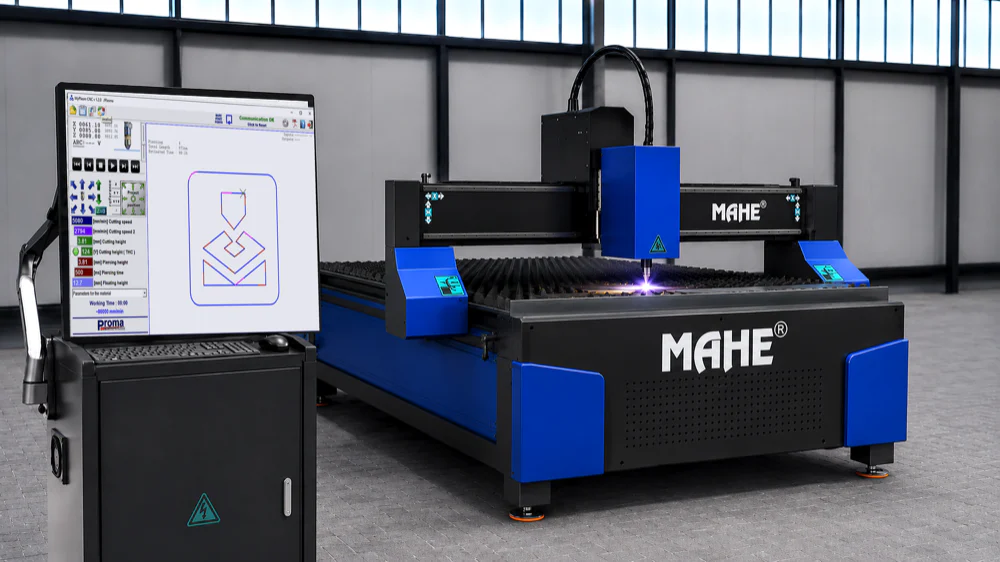
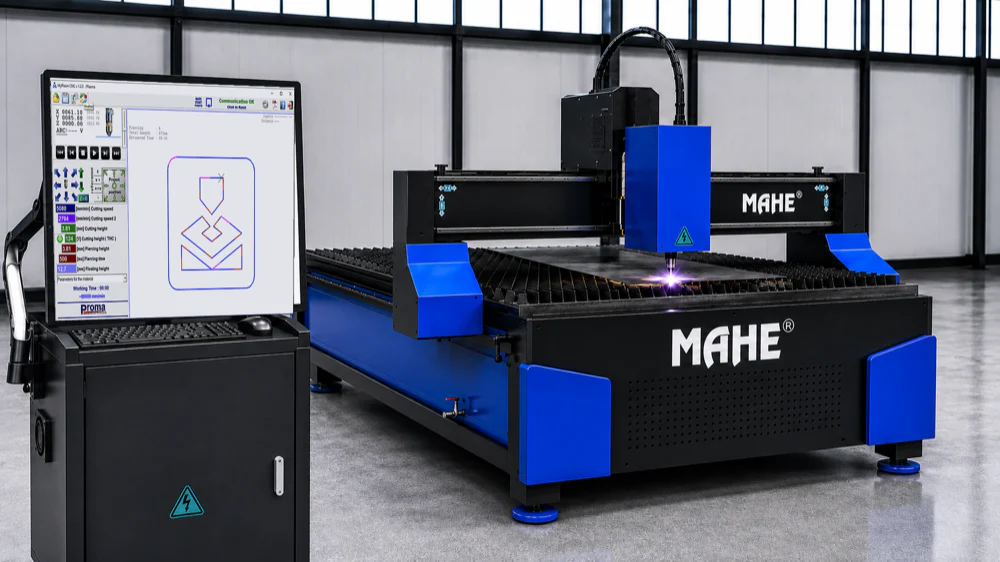
Neuer MPT-Render vom Inhaber, mit der echten MyPlasm-Oberflaeche
Der Inhaber hat "MAHE MPT 3001.png" geliefert. Die Maschine darauf ist
deutlich besser als in der bisherigen Vorlage: auf dem Tisch liegt ein Blech,
der Brenner schneidet hinein und wirft Funken, die Lamellen sind dichter, die
Verkleidungen groesser, das Licht ist sauberer. Die bisherige Aufnahme
schnitt ins Leere. Sie ist damit ersetzt - auf beiden Geraeteseiten und im
Band der Startseite.

Der Bildschirm darin ist neu eingesetzt, wie beim vorigen Render. Grund: in
der gelieferten Fassung stand auf dem Monitor eine Oberflaeche, die es nicht
gibt. Nachgelesen im Bild: Fenstertitel "MAHE CNC 1.2.0 | Plasma", darunter
"S800 [mm/min] Cutting speed" (die Anlage faehrt 5080), "SIG [mm] Piercing
height" - SIG ist keine Millimeterzahl -, "S300 [ms] Piercing time" (500),
"Filename: Deeeeein taberdd | uumaa G", "Total Lengtusn : 6310mm",
"Inputs :=666-----", und im Bedienfeld "Clemant 0 Comant" statt "Project
position".

"MAHE CNC" kommt in keiner MAHE-Quelle vor. Geprueft ueber data/*.json und
build/mahe_*.json: dort steht durchgehend "MyPlasm CNC System von Proma
Elektronika" - MAHEs eigene Angabe aus der Preisliste 2026 V11, S. 66/67, und
so steht es auch im Text derselben Produktseite. Auf dem Monitor ist deshalb
wieder die echte Aufnahme der Oberflaeche zu sehen, perspektivisch eingepasst
(Ecken 83/130, 492/146, 490/525, 92/537), dreifach ueberabtastet und mit
LANCZOS verkleinert, UnsharpMask 0.8/60/2, Tonwert an die Umgebung
angeglichen (Faktor 0.89/0.90/0.92).
[…]

diff --git a/fr/index.html b/fr/index.html
@@ -102,7 +102,7 @@
 </aside>
 <main id="main">
 
-<section class="hero" data-hero aria-roledescription="carousel" aria-label="VES-TECH Swiss"><div class="hero-slide active" role="group" aria-roledescription="slide" aria-label="Image 1 sur 2"><div class="hero-inner"><img class="hero-photo" src="/assets/img/hero-1536.webp?v=4fab8153" srcset="/assets/img/hero-640.webp?v=7de5f3d2 640w, /assets/img/hero-1000.webp?v=fa3d0fe1 1000w, /assets/img/hero-1536.webp?v=4fab8153 1536w" sizes="100vw" width="1536" height="1024" fetchpriority="high" decoding="async" alt="MAHE HyperMIG SX: Schweissanlagen bei VES-TECH Swiss" data-fb="/assets/img/hero.jpg"></div></div><div class="hero-slide light" role="group" aria-roledescription="slide" aria-label="Image 2 sur 2"><div class="hero-inner"><img class="hero-photo" src="/assets/img/hero-mpt-2048.webp?v=5ce88a02" srcset="/assets/img/hero-mpt-640.webp?v=cf7dc135 640w, /assets/img/hero-mpt-1000.webp?v=88d31c6d 1000w, /assets/img/hero-mpt-1536.webp?v=458fb6f8 1536w, /assets/img/hero-mpt-2048.webp?v=5ce88a02 2048w" sizes="100vw" width="3344" height="1882" loading="eager" fetchpriority="low" decoding="async" alt="MAHE MPT: CNC-Plasmaschneidtisch mit Bedienkonsole" data-fb="/assets/img/hero-mpt.jpg"><div class="hero-txt"><span class="hk">Nouveau dans la gamme</span><h2>MAHE MPT · table de découpe plasma CNC</h2><p>3000 × 1500 mm ou 2500 × 1250 mm · Theta 060 / 120 / 180 HSC · MyPlasm CNC</p><a class="btn pri" href="/fr/produits/decoupe-plasma/mpt-3001/">Voir la table de découpe</a></div></div></div><div class="hero-dots" role="tablist" aria-label="Autres images"><button class="hdot active" type="button" role="tab" aria-selected="true" data-i="0" aria-label="Image 1 sur 2"></button><button class="hdot" type="button" role="tab" aria-selected="false" data-i="1" aria-label="Image 2 sur 2"></button></div></section>
+<section class="hero" data-hero aria-roledescription="carousel" aria-label="VES-TECH Swiss"><div class="hero-slide active" role="group" aria-roledescription="slide" aria-label="Image 1 sur 2"><div class="hero-inner"><img class="hero-photo" src="/assets/img/hero-1536.webp?v=4fab8153" srcset="/assets/img/hero-640.webp?v=7de5f3d2 640w, /assets/img/hero-1000.webp?v=fa3d0fe1 1000w, /assets/img/hero-1536.webp?v=4fab8153 1536w" sizes="100vw" width="1536" height="1024" fetchpriority="high" decoding="async" alt="MAHE HyperMIG SX: Schweissanlagen bei VES-TECH Swiss" data-fb="/assets/img/hero.jpg"></div></div><div class="hero-slide light" role="group" aria-roledescription="slide" aria-label="Image 2 sur 2"><div class="hero-inner"><img class="hero-photo" src="/assets/img/hero-mpt-1536.webp?v=ac222b6c" srcset="/assets/img/hero-mpt-640.webp?v=cedb6448 640w, /assets/img/hero-mpt-1000.webp?v=426c4d49 1000w, /assets/img/hero-mpt-1536.webp?v=ac222b6c 1536w" sizes="100vw" width="1672" height="941" loading="eager" fetchpriority="low" decoding="async" alt="MAHE MPT: CNC-Plasmaschneidtisch mit Bedienkonsole" data-fb="/assets/img/hero-mpt.jpg"><div class="hero-txt"><span class="hk">Nouveau dans la gamme</span><h2>MAHE MPT · table de découpe plasma CNC</h2><p>3000 × 1500 mm ou 2500 × 1250 mm · Theta 060 / 120 / 180 HSC · MyPlasm CNC</p><a class="btn pri" href="/fr/produits/decoupe-plasma/mpt-3001/">Voir la table de découpe</a></div></div></div><div class="hero-dots" role="tablist" aria-label="Autres images"><button class="hdot active" type="button" role="tab" aria-selected="true" data-i="0" aria-label="Image 1 sur 2"></button><button class="hdot" type="button" role="tab" aria-selected="false" data-i="1" aria-label="Image 2 sur 2"></button></div></section>
 <div class="hero-cta"><div class="wrap"><div class="cta-row">
   <a class="btn pri" href="/fr/contact/">Demander un technicien →</a>
   <a class="btn ghost light" href="/fr/produits/">Voir les systèmes MAHE</a>

diff --git a/it/index.html b/it/index.html
@@ -102,7 +102,7 @@
 </aside>
 <main id="main">
 
-<section class="hero" data-hero aria-roledescription="carousel" aria-label="VES-TECH Swiss"><div class="hero-slide active" role="group" aria-roledescription="slide" aria-label="Immagine 1 di 2"><div class="hero-inner"><img class="hero-photo" src="/assets/img/hero-1536.webp?v=4fab8153" srcset="/assets/img/hero-640.webp?v=7de5f3d2 640w, /assets/img/hero-1000.webp?v=fa3d0fe1 1000w, /assets/img/hero-1536.webp?v=4fab8153 1536w" sizes="100vw" width="1536" height="1024" fetchpriority="high" decoding="async" alt="MAHE HyperMIG SX: Schweissanlagen bei VES-TECH Swiss" data-fb="/assets/img/hero.jpg"></div></div><div class="hero-slide light" role="group" aria-roledescription="slide" aria-label="Immagine 2 di 2"><div class="hero-inner"><img class="hero-photo" src="/assets/img/hero-mpt-2048.webp?v=5ce88a02" srcset="/assets/img/hero-mpt-640.webp?v=cf7dc135 640w, /assets/img/hero-mpt-1000.webp?v=88d31c6d 1000w, /assets/img/hero-mpt-1536.webp?v=458fb6f8 1536w, /assets/img/hero-mpt-2048.webp?v=5ce88a02 2048w" sizes="100vw" width="3344" height="1882" loading="eager" fetchpriority="low" decoding="async" alt="MAHE MPT: CNC-Plasmaschneidtisch mit Bedienkonsole" data-fb="/assets/img/hero-mpt.jpg"><div class="hero-txt"><span class="hk">Nuovo in gamma</span><h2>MAHE MPT · tavolo di taglio al plasma CNC</h2><p>3000 × 1500 mm o 2500 × 1250 mm · Theta 060 / 120 / 180 HSC · MyPlasm CNC</p><a class="btn pri" href="/it/prodotti/taglio-plasma/mpt-3001/">Vai al tavolo di taglio</a></div></div></div><div class="hero-dots" role="tablist" aria-label="Altre immagini"><button class="hdot active" type="button" role="tab" aria-selected="true" data-i="0" aria-label="Immagine 1 di 2"></button><button class="hdot" type="button" role="tab" aria-selected="false" data-i="1" aria-label="Immagine 2 di 2"></button></div></section>
+<section class="hero" data-hero aria-roledescription="carousel" aria-label="VES-TECH Swiss"><div class="hero-slide active" role="group" aria-roledescription="slide" aria-label="Immagine 1 di 2"><div class="hero-inner"><img class="hero-photo" src="/assets/img/hero-1536.webp?v=4fab8153" srcset="/assets/img/hero-640.webp?v=7de5f3d2 640w, /assets/img/hero-1000.webp?v=fa3d0fe1 1000w, /assets/img/hero-1536.webp?v=4fab8153 1536w" sizes="100vw" width="1536" height="1024" fetchpriority="high" decoding="async" alt="MAHE HyperMIG SX: Schweissanlagen bei VES-TECH Swiss" data-fb="/assets/img/hero.jpg"></div></div><div class="hero-slide light" role="group" aria-roledescription="slide" aria-label="Immagine 2 di 2"><div class="hero-inner"><img class="hero-photo" src="/assets/img/hero-mpt-1536.webp?v=ac222b6c" srcset="/assets/img/hero-mpt-640.webp?v=cedb6448 640w, /assets/img/hero-mpt-1000.webp?v=426c4d49 1000w, /assets/img/hero-mpt-1536.webp?v=ac222b6c 1536w" sizes="100vw" width="1672" height="941" loading="eager" fetchpriority="low" decoding="async" alt="MAHE MPT: CNC-Plasmaschneidtisch mit Bedienkonsole" data-fb="/assets/img/hero-mpt.jpg"><div class="hero-txt"><span class="hk">Nuovo in gamma</span><h2>MAHE MPT · tavolo di taglio al plasma CNC</h2><p>3000 × 1500 mm o 2500 × 1250 mm · Theta 060 / 120 / 180 HSC · MyPlasm CNC</p><a class="btn pri" href="/it/prodotti/taglio-plasma/mpt-3001/">Vai al tavolo di taglio</a></div></div></div><div class="hero-dots" role="tablist" aria-label="Altre immagini"><button class="hdot active" type="button" role="tab" aria-selected="true" data-i="0" aria-label="Immagine 1 di 2"></button><button class="hdot" type="button" role="tab" aria-selected="false" data-i="1" aria-label="Immagine 2 di 2"></button></div></section>
 <div class="hero-cta"><div class="wrap"><div class="cta-row">
   <a class="btn pri" href="/it/contatto/">Richiedi un tecnico →</a>
   <a class="btn ghost light" href="/it/prodotti/">Vedi i sistemi MAHE</a>

diff --git a/index.html b/index.html
@@ -102,7 +102,7 @@
 </aside>
 <main id="main">
 
-<section class="hero" data-hero aria-roledescription="carousel" aria-label="VES-TECH Swiss"><div class="hero-slide active" role="group" aria-roledescription="slide" aria-label="Bild 1 von 2"><div class="hero-inner"><img class="hero-photo" src="/assets/img/hero-1536.webp?v=4fab8153" srcset="/assets/img/hero-640.webp?v=7de5f3d2 640w, /assets/img/hero-1000.webp?v=fa3d0fe1 1000w, /assets/img/hero-1536.webp?v=4fab8153 1536w" sizes="100vw" width="1536" height="1024" fetchpriority="high" decoding="async" alt="MAHE HyperMIG SX: Schweissanlagen bei VES-TECH Swiss" data-fb="/assets/img/hero.jpg"></div></div><div class="hero-slide light" role="group" aria-roledescription="slide" aria-label="Bild 2 von 2"><div class="hero-inner"><img class="hero-photo" src="/assets/img/hero-mpt-2048.webp?v=5ce88a02" srcset="/assets/img/hero-mpt-640.webp?v=cf7dc135 640w, /assets/img/hero-mpt-1000.webp?v=88d31c6d 1000w, /assets/img/hero-mpt-1536.webp?v=458fb6f8 1536w, /assets/img/hero-mpt-2048.webp?v=5ce88a02 2048w" sizes="100vw" width="3344" height="1882" loading="eager" fetchpriority="low" decoding="async" alt="MAHE MPT: CNC-Plasmaschneidtisch mit Bedienkonsole" data-fb="/assets/img/hero-mpt.jpg"><div class="hero-txt"><span class="hk">Neu im Programm</span><h2>MAHE MPT · CNC-Plasmaschneidtisch</h2><p>3000 × 1500 mm oder 2500 × 1250 mm · Theta 060 / 120 / 180 HSC · MyPlasm CNC</p><a class="btn pri" href="/produkte/plasmaschneiden/mpt-3001/">Zum Schneidtisch</a></div></div></div><div class="hero-dots" role="tablist" aria-label="Weitere Bilder"><button class="hdot active" type="button" role="tab" aria-selected="true" data-i="0" aria-label="Bild 1 von 2"></button><button class="hdot" type="button" role="tab" aria-selected="false" data-i="1" aria-label="Bild 2 von 2"></button></div></section>
+<section class="hero" data-hero aria-roledescription="carousel" aria-label="VES-TECH Swiss"><div class="hero-slide active" role="group" aria-roledescription="slide" aria-label="Bild 1 von 2"><div class="hero-inner"><img class="hero-photo" src="/assets/img/hero-1536.webp?v=4fab8153" srcset="/assets/img/hero-640.webp?v=7de5f3d2 640w, /assets/img/hero-1000.webp?v=fa3d0fe1 1000w, /assets/img/hero-1536.webp?v=4fab8153 1536w" sizes="100vw" width="1536" height="1024" fetchpriority="high" decoding="async" alt="MAHE HyperMIG SX: Schweissanlagen bei VES-TECH Swiss" data-fb="/assets/img/hero.jpg"></div></div><div class="hero-slide light" role="group" aria-roledescription="slide" aria-label="Bild 2 von 2"><div class="hero-inner"><img class="hero-photo" src="/assets/img/hero-mpt-1536.webp?v=ac222b6c" srcset="/assets/img/hero-mpt-640.webp?v=cedb6448 640w, /assets/img/hero-mpt-1000.webp?v=426c4d49 1000w, /assets/img/hero-mpt-1536.webp?v=ac222b6c 1536w" sizes="100vw" width="1672" height="941" loading="eager" fetchpriority="low" decoding="async" alt="MAHE MPT: CNC-Plasmaschneidtisch mit Bedienkonsole" data-fb="/assets/img/hero-mpt.jpg"><div class="hero-txt"><span class="hk">Neu im Programm</span><h2>MAHE MPT · CNC-Plasmaschneidtisch</h2><p>3000 × 1500 mm oder 2500 × 1250 mm · Theta 060 / 120 / 180 HSC · MyPlasm CNC</p><a class="btn pri" href="/produkte/plasmaschneiden/mpt-3001/">Zum Schneidtisch</a></div></div></div><div class="hero-dots" role="tablist" aria-label="Weitere Bilder"><button class="hdot active" type="button" role="tab" aria-selected="true" data-i="0" aria-label="Bild 1 von 2"></button><button class="hdot" type="button" role="tab" aria-selected="false" data-i="1" aria-label="Bild 2 von 2"></button></div></section>
 <div class="hero-cta"><div class="wrap"><div class="cta-row">
   <a class="btn pri" href="/kontakt/">Technik direkt anfragen →</a>
   <a class="btn ghost light" href="/produkte/">MAHE Systeme ansehen</a>

diff --git a/fr/produits/decoupe-plasma/tables-de-decoupe/index.html b/fr/produits/decoupe-plasma/tables-de-decoupe/index.html
@@ -109,7 +109,7 @@
 </div></div><div class="catalog"><div class="wrap"><div class="cathead"><h2>Tables de découpe</h2><span class="count">2 articles · Prix sur demande</span></div><div class="pgrid"><article class="pcard">
   <a class="pcard-link" href="/fr/produits/decoupe-plasma/mpt-3001/">
     <div class="imgbox">
-      <img class="" src="/assets/img/panels/mpt-plasmaschneidtisch-400.webp" srcset="/assets/img/panels/mpt-plasmaschneidtisch-400.webp 400w, /assets/img/panels/mpt-plasmaschneidtisch-1000.webp 1000w, /assets/img/panels/mpt-plasmaschneidtisch-1600.webp 1600w, /assets/img/panels/mpt-plasmaschneidtisch-2000.webp 2000w, /assets/img/panels/mpt-plasmaschneidtisch-3000.webp 3000w" sizes="(max-width:700px) 46vw, (max-width:1000px) 30vw, 280px" width="400" height="225" alt="MAHE MPT 3001: Table de découpe plasma CNC professionnelle, surface de travail 3000 x 1500 mm, livrée en set avec une source de courant MAHE Theta." loading="lazy" decoding="async" referrerpolicy="no-referrer"></div>
+      <img class="" src="/assets/img/panels/mpt-plasmaschneidtisch-400.webp" srcset="/assets/img/panels/mpt-plasmaschneidtisch-400.webp 400w, /assets/img/panels/mpt-plasmaschneidtisch-1000.webp 1000w, /assets/img/panels/mpt-plasmaschneidtisch-1600.webp 1600w, /assets/img/panels/mpt-plasmaschneidtisch-1672.webp 1672w" sizes="(max-width:700px) 46vw, (max-width:1000px) 30vw, 280px" width="400" height="225" alt="MAHE MPT 3001: Table de découpe plasma CNC professionnelle, surface de travail 3000 x 1500 mm, livrée en set avec une source de courant MAHE Theta." loading="lazy" decoding="async" referrerpolicy="no-referrer"></div>
     <div class="body"><h3>MPT 3001</h3><p>Table de découpe plasma CNC professionnelle, surface de travail 3000 x 1500 mm, livrée en set avec une source de courant MAHE Theta.</p>
       <div class="spec"><span>découpe plasma</span><span>3000 x 1500 mm</span><span>Theta 060 / 120 / 180 HSC</span></div></div>
   </a>
@@ -119,7 +119,7 @@
 </article><article class="pcard">
   <a class="pcard-link" href="/fr/produits/decoupe-plasma/mpt-2501/">
     <div class="imgbox">
-      <img class="" src="/assets/img/panels/mpt-plasmaschneidtisch-400.webp" srcset="/assets/img/panels/mpt-plasmaschneidtisch-400.webp 400w, /assets/img/panels/mpt-plasmaschneidtisch-1000.webp 1000w, /assets/img/panels/mpt-plasmaschneidtisch-1600.webp 1600w, /assets/img/panels/mpt-plasmaschneidtisch-2000.webp 2000w, /assets/img/panels/mpt-plasmaschneidtisch-3000.webp 3000w" sizes="(max-width:700px) 46vw, (max-width:1000px) 30vw, 280px" width="400" height="225" alt="MAHE MPT 2501: Table de découpe plasma CNC professionnelle, surface de travail 2500 x 1250 mm, livrée en set avec une source de courant MAHE Theta." loading="lazy" decoding="async" referrerpolicy="no-referrer"></div>
+      <img class="" src="/assets/img/panels/mpt-plasmaschneidtisch-400.webp" srcset="/assets/img/panels/mpt-plasmaschneidtisch-400.webp 400w, /assets/img/panels/mpt-plasmaschneidtisch-1000.webp 1000w, /assets/img/panels/mpt-plasmaschneidtisch-1600.webp 1600w, /assets/img/panels/mpt-plasmaschneidtisch-1672.webp 1672w" sizes="(max-width:700px) 46vw, (max-width:1000px) 30vw, 280px" width="400" height="225" alt="MAHE MPT 2501: Table de découpe plasma CNC professionnelle, surface de travail 2500 x 1250 mm, livrée en set avec une source de courant MAHE Theta." loading="lazy" decoding="async" referrerpolicy="no-referrer"></div>
     <div class="body"><h3>MPT 2501</h3><p>Table de découpe plasma CNC professionnelle, surface de travail 2500 x 1250 mm, livrée en set avec une source de courant MAHE Theta.</p>
       <div class="spec"><span>découpe plasma</span><span>2500 x 1250 mm</span><span>Theta 060 / 120 / 180 HSC</span></div></div>
   </a>

diff --git a/produkte/plasmaschneiden/schneidtische/index.html b/produkte/plasmaschneiden/schneidtische/index.html
@@ -109,7 +109,7 @@
 </div></div><div class="catalog"><div class="wrap"><div class="cathead"><h2>Schneidtische</h2><span class="count">2 Artikel · Preis auf Anfrage</span></div><div class="pgrid"><article class="pcard">
   <a class="pcard-link" href="/produkte/plasmaschneiden/mpt-3001/">
     <div class="imgbox">
-      <img class="" src="/assets/img/panels/mpt-plasmaschneidtisch-400.webp" srcset="/assets/img/panels/mpt-plasmaschneidtisch-400.webp 400w, /assets/img/panels/mpt-plasmaschneidtisch-1000.webp 1000w, /assets/img/panels/mpt-plasmaschneidtisch-1600.webp 1600w, /assets/img/panels/mpt-plasmaschneidtisch-2000.webp 2000w, /assets/img/panels/mpt-plasmaschneidtisch-3000.webp 3000w" sizes="(max-width:700px) 46vw, (max-width:1000px) 30vw, 280px" width="400" height="225" alt="MAHE MPT 3001: Professioneller CNC-Plasmaschneidtisch mit 3000 x 1500 mm Arbeitsbereich, geliefert als Set mit einer MAHE Theta Stromquelle." loading="lazy" decoding="async" referrerpolicy="no-referrer"></div>
+      <img class="" src="/assets/img/panels/mpt-plasmaschneidtisch-400.webp" srcset="/assets/img/panels/mpt-plasmaschneidtisch-400.webp 400w, /assets/img/panels/mpt-plasmaschneidtisch-1000.webp 1000w, /assets/img/panels/mpt-plasmaschneidtisch-1600.webp 1600w, /assets/img/panels/mpt-plasmaschneidtisch-1672.webp 1672w" sizes="(max-width:700px) 46vw, (max-width:1000px) 30vw, 280px" width="400" height="225" alt="MAHE MPT 3001: Professioneller CNC-Plasmaschneidtisch mit 3000 x 1500 mm Arbeitsbereich, geliefert als Set mit einer MAHE Theta Stromquelle." loading="lazy" decoding="async" referrerpolicy="no-referrer"></div>
     <div class="body"><h3>MPT 3001</h3><p>Professioneller CNC-Plasmaschneidtisch mit 3000 x 1500 mm Arbeitsbereich, geliefert als Set mit einer MAHE Theta Stromquelle.</p>
       <div class="spec"><span>Plasmaschneiden</span><span>3000 x 1500 mm</span><span>Theta 060 / 120 / 180 HSC</span></div></div>
   </a>
@@ -119,7 +119,7 @@
 </article><article class="pcard">
   <a class="pcard-link" href="/produkte/plasmaschneiden/mpt-2501/">
     <div class="imgbox">
-      <img class="" src="/assets/img/panels/mpt-plasmaschneidtisch-400.webp" srcset="/assets/img/panels/mpt-plasmaschneidtisch-400.webp 400w, /assets/img/panels/mpt-plasmaschneidtisch-1000.webp 1000w, /assets/img/panels/mpt-plasmaschneidtisch-1600.webp 1600w, /assets/img/panels/mpt-plasmaschneidtisch-2000.webp 2000w, /assets/img/panels/mpt-plasmaschneidtisch-3000.webp 3000w" sizes="(max-width:700px) 46vw, (max-width:1000px) 30vw, 280px" width="400" height="225" alt="MAHE MPT 2501: Professioneller CNC-Plasmaschneidtisch mit 2500 x 1250 mm Arbeitsbereich, geliefert als Set mit einer MAHE Theta Stromquelle." loading="lazy" decoding="async" referrerpolicy="no-referrer"></div>
+      <img class="" src="/assets/img/panels/mpt-plasmaschneidtisch-400.webp" srcset="/assets/img/panels/mpt-plasmaschneidtisch-400.webp 400w, /assets/img/panels/mpt-plasmaschneidtisch-1000.webp 1000w, /assets/img/panels/mpt-plasmaschneidtisch-1600.webp 1600w, /assets/img/panels/mpt-plasmaschneidtisch-1672.webp 1672w" sizes="(max-width:700px) 46vw, (max-width:1000px) 30vw, 280px" width="400" height="225" alt="MAHE MPT 2501: Professioneller CNC-Plasmaschneidtisch mit 2500 x 1250 mm Arbeitsbereich, geliefert als Set mit einer MAHE Theta Stromquelle." loading="lazy" decoding="async" referrerpolicy="no-referrer"></div>
     <div class="body"><h3>MPT 2501</h3><p>Professioneller CNC-Plasmaschneidtisch mit 2500 x 1250 mm Arbeitsbereich, geliefert als Set mit einer MAHE Theta Stromquelle.</p>
       <div class="spec"><span>Plasmaschneiden</span><span>2500 x 1250 mm</span><span>Theta 060 / 120 / 180 HSC</span></div></div>
   </a>

diff --git a/it/prodotti/taglio-plasma/tavoli-di-taglio/index.html b/it/prodotti/taglio-plasma/tavoli-di-taglio/index.html
@@ -109,7 +109,7 @@
 </div></div><div class="catalog"><div class="wrap"><div class="cathead"><h2>Tavoli di taglio</h2><span class="count">2 articoli · Prezzo su richiesta</span></div><div class="pgrid"><article class="pcard">
   <a class="pcard-link" href="/it/prodotti/taglio-plasma/mpt-3001/">
     <div class="imgbox">
-      <img class="" src="/assets/img/panels/mpt-plasmaschneidtisch-400.webp" srcset="/assets/img/panels/mpt-plasmaschneidtisch-400.webp 400w, /assets/img/panels/mpt-plasmaschneidtisch-1000.webp 1000w, /assets/img/panels/mpt-plasmaschneidtisch-1600.webp 1600w, /assets/img/panels/mpt-plasmaschneidtisch-2000.webp 2000w, /assets/img/panels/mpt-plasmaschneidtisch-3000.webp 3000w" sizes="(max-width:700px) 46vw, (max-width:1000px) 30vw, 280px" width="400" height="225" alt="MAHE MPT 3001: Tavolo di taglio al plasma CNC professionale, area di lavoro 3000 x 1500 mm, fornito in set con un generatore MAHE Theta." loading="lazy" decoding="async" referrerpolicy="no-referrer"></div>
+      <img class="" src="/assets/img/panels/mpt-plasmaschneidtisch-400.webp" srcset="/assets/img/panels/mpt-plasmaschneidtisch-400.webp 400w, /assets/img/panels/mpt-plasmaschneidtisch-1000.webp 1000w, /assets/img/panels/mpt-plasmaschneidtisch-1600.webp 1600w, /assets/img/panels/mpt-plasmaschneidtisch-1672.webp 1672w" sizes="(max-width:700px) 46vw, (max-width:1000px) 30vw, 280px" width="400" height="225" alt="MAHE MPT 3001: Tavolo di taglio al plasma CNC professionale, area di lavoro 3000 x 1500 mm, fornito in set con un generatore MAHE Theta." loading="lazy" decoding="async" referrerpolicy="no-referrer"></div>
     <div class="body"><h3>MPT 3001</h3><p>Tavolo di taglio al plasma CNC professionale, area di lavoro 3000 x 1500 mm, fornito in set con un generatore MAHE Theta.</p>
       <div class="spec"><span>taglio al plasma</span><span>3000 x 1500 mm</span><span>Theta 060 / 120 / 180 HSC</span></div></div>
   </a>
@@ -119,7 +119,7 @@
 </article><article class="pcard">
   <a class="pcard-link" href="/it/prodotti/taglio-plasma/mpt-2501/">
     <div class="imgbox">
-      <img class="" src="/assets/img/panels/mpt-plasmaschneidtisch-400.webp" srcset="/assets/img/panels/mpt-plasmaschneidtisch-400.webp 400w, /assets/img/panels/mpt-plasmaschneidtisch-1000.webp 1000w, /assets/img/panels/mpt-plasmaschneidtisch-1600.webp 1600w, /assets/img/panels/mpt-plasmaschneidtisch-2000.webp 2000w, /assets/img/panels/mpt-plasmaschneidtisch-3000.webp 3000w" sizes="(max-width:700px) 46vw, (max-width:1000px) 30vw, 280px" width="400" height="225" alt="MAHE MPT 2501: Tavolo di taglio al plasma CNC professionale, area di lavoro 2500 x 1250 mm, fornito in set con un generatore MAHE Theta." loading="lazy" decoding="async" referrerpolicy="no-referrer"></div>
+      <img class="" src="/assets/img/panels/mpt-plasmaschneidtisch-400.webp" srcset="/assets/img/panels/mpt-plasmaschneidtisch-400.webp 400w, /assets/img/panels/mpt-plasmaschneidtisch-1000.webp 1000w, /assets/img/panels/mpt-plasmaschneidtisch-1600.webp 1600w, /assets/img/panels/mpt-plasmaschneidtisch-1672.webp 1672w" sizes="(max-width:700px) 46vw, (max-width:1000px) 30vw, 280px" width="400" height="225" alt="MAHE MPT 2501: Tavolo di taglio al plasma CNC professionale, area di lavoro 2500 x 1250 mm, fornito in set con un generatore MAHE Theta." loading="lazy" decoding="async" referrerpolicy="no-referrer"></div>
     <div class="body"><h3>MPT 2501</h3><p>Tavolo di taglio al plasma CNC professionale, area di lavoro 2500 x 1250 mm, fornito in set con un generatore MAHE Theta.</p>
       <div class="spec"><span>taglio al plasma</span><span>2500 x 1250 mm</span><span>Theta 060 / 120 / 180 HSC</span></div></div>
   </a>

diff --git a/fr/produits/decoupe-plasma/index.html b/fr/produits/decoupe-plasma/index.html
@@ -169,7 +169,7 @@
 </article><article class="pcard">
   <a class="pcard-link" href="/fr/produits/decoupe-plasma/mpt-3001/">
     <div class="imgbox">
-      <img class="" src="/assets/img/panels/mpt-plasmaschneidtisch-400.webp" srcset="/assets/img/panels/mpt-plasmaschneidtisch-400.webp 400w, /assets/img/panels/mpt-plasmaschneidtisch-1000.webp 1000w, /assets/img/panels/mpt-plasmaschneidtisch-1600.webp 1600w, /assets/img/panels/mpt-plasmaschneidtisch-2000.webp 2000w, /assets/img/panels/mpt-plasmaschneidtisch-3000.webp 3000w" sizes="(max-width:700px) 46vw, (max-width:1000px) 30vw, 280px" width="400" height="225" alt="MAHE MPT 3001: Table de découpe plasma CNC professionnelle, surface de travail 3000 x 1500 mm, livrée en set avec une source de courant MAHE Theta." loading="lazy" decoding="async" referrerpolicy="no-referrer"></div>
+      <img class="" src="/assets/img/panels/mpt-plasmaschneidtisch-400.webp" srcset="/assets/img/panels/mpt-plasmaschneidtisch-400.webp 400w, /assets/img/panels/mpt-plasmaschneidtisch-1000.webp 1000w, /assets/img/panels/mpt-plasmaschneidtisch-1600.webp 1600w, /assets/img/panels/mpt-plasmaschneidtisch-1672.webp 1672w" sizes="(max-width:700px) 46vw, (max-width:1000px) 30vw, 280px" width="400" height="225" alt="MAHE MPT 3001: Table de découpe plasma CNC professionnelle, surface de travail 3000 x 1500 mm, livrée en set avec une source de courant MAHE Theta." loading="lazy" decoding="async" referrerpolicy="no-referrer"></div>
     <div class="body"><h3>MPT 3001</h3><p>Table de découpe plasma CNC professionnelle, surface de travail 3000 x 1500 mm, livrée en set avec une source de courant MAHE Theta.</p>
       <div class="spec"><span>découpe plasma</span><span>3000 x 1500 mm</span><span>Theta 060 / 120 / 180 HSC</span></div></div>
   </a>
@@ -179,7 +179,7 @@
 </article><article class="pcard">
   <a class="pcard-link" href="/fr/produits/decoupe-plasma/mpt-2501/">
     <div class="imgbox">
-      <img class="" src="/assets/img/panels/mpt-plasmaschneidtisch-400.webp" srcset="/assets/img/panels/mpt-plasmaschneidtisch-400.webp 400w, /assets/img/panels/mpt-plasmaschneidtisch-1000.webp 1000w, /assets/img/panels/mpt-plasmaschneidtisch-1600.webp 1600w, /assets/img/panels/mpt-plasmaschneidtisch-2000.webp 2000w, /assets/img/panels/mpt-plasmaschneidtisch-3000.webp 3000w" sizes="(max-width:700px) 46vw, (max-width:1000px) 30vw, 280px" width="400" height="225" alt="MAHE MPT 2501: Table de découpe plasma CNC professionnelle, surface de travail 2500 x 1250 mm, livrée en set avec une source de courant MAHE Theta." loading="lazy" decoding="async" referrerpolicy="no-referrer"></div>
+      <img class="" src="/assets/img/panels/mpt-plasmaschneidtisch-400.webp" srcset="/assets/img/panels/mpt-plasmaschneidtisch-400.webp 400w, /assets/img/panels/mpt-plasmaschneidtisch-1000.webp 1000w, /assets/img/panels/mpt-plasmaschneidtisch-1600.webp 1600w, /assets/img/panels/mpt-plasmaschneidtisch-1672.webp 1672w" sizes="(max-width:700px) 46vw, (max-width:1000px) 30vw, 280px" width="400" height="225" alt="MAHE MPT 2501: Table de découpe plasma CNC professionnelle, surface de travail 2500 x 1250 mm, livrée en set avec une source de courant MAHE Theta." loading="lazy" decoding="async" referrerpolicy="no-referrer"></div>
     <div class="body"><h3>MPT 2501</h3><p>Table de découpe plasma CNC professionnelle, surface de travail 2500 x 1250 mm, livrée en set avec une source de courant MAHE Theta.</p>
       <div class="spec"><span>découpe plasma</span><span>2500 x 1250 mm</span><span>Theta 060 / 120 / 180 HSC</span></div></div>
   </a>

diff --git a/fr/produits/index.html b/fr/produits/index.html
@@ -309,7 +309,7 @@
 </article><article class="pcard">
   <a class="pcard-link" href="/fr/produits/decoupe-plasma/mpt-3001/">
     <div class="imgbox">
-      <img class="" src="/assets/img/panels/mpt-plasmaschneidtisch-400.webp" srcset="/assets/img/panels/mpt-plasmaschneidtisch-400.webp 400w, /assets/img/panels/mpt-plasmaschneidtisch-1000.webp 1000w, /assets/img/panels/mpt-plasmaschneidtisch-1600.webp 1600w, /assets/img/panels/mpt-plasmaschneidtisch-2000.webp 2000w, /assets/img/panels/mpt-plasmaschneidtisch-3000.webp 3000w" sizes="(max-width:700px) 46vw, (max-width:1000px) 30vw, 280px" width="400" height="225" alt="MAHE MPT 3001: Table de découpe plasma CNC professionnelle, surface de travail 3000 x 1500 mm, livrée en set avec une source de courant MAHE Theta." loading="lazy" decoding="async" referrerpolicy="no-referrer"></div>
+      <img class="" src="/assets/img/panels/mpt-plasmaschneidtisch-400.webp" srcset="/assets/img/panels/mpt-plasmaschneidtisch-400.webp 400w, /assets/img/panels/mpt-plasmaschneidtisch-1000.webp 1000w, /assets/img/panels/mpt-plasmaschneidtisch-1600.webp 1600w, /assets/img/panels/mpt-plasmaschneidtisch-1672.webp 1672w" sizes="(max-width:700px) 46vw, (max-width:1000px) 30vw, 280px" width="400" height="225" alt="MAHE MPT 3001: Table de découpe plasma CNC professionnelle, surface de travail 3000 x 1500 mm, livrée en set avec une source de courant MAHE Theta." loading="lazy" decoding="async" referrerpolicy="no-referrer"></div>
     <div class="body"><h3>MPT 3001</h3><p>Table de découpe plasma CNC professionnelle, surface de travail 3000 x 1500 mm, livrée en set avec une source de courant MAHE Theta.</p>
       <div class="spec"><span>découpe plasma</span><span>3000 x 1500 mm</span><span>Theta 060 / 120 / 180 HSC</span></div></div>
   </a>
@@ -319,7 +319,7 @@
 </article><article class="pcard">
   <a class="pcard-link" href="/fr/produits/decoupe-plasma/mpt-2501/">
     <div class="imgbox">
-      <img class="" src="/assets/img/panels/mpt-plasmaschneidtisch-400.webp" srcset="/assets/img/panels/mpt-plasmaschneidtisch-400.webp 400w, /assets/img/panels/mpt-plasmaschneidtisch-1000.webp 1000w, /assets/img/panels/mpt-plasmaschneidtisch-1600.webp 1600w, /assets/img/panels/mpt-plasmaschneidtisch-2000.webp 2000w, /assets/img/panels/mpt-plasmaschneidtisch-3000.webp 3000w" sizes="(max-width:700px) 46vw, (max-width:1000px) 30vw, 280px" width="400" height="225" alt="MAHE MPT 2501: Table de découpe plasma CNC professionnelle, surface de travail 2500 x 1250 mm, livrée en set avec une source de courant MAHE Theta." loading="lazy" decoding="async" referrerpolicy="no-referrer"></div>
+      <img class="" src="/assets/img/panels/mpt-plasmaschneidtisch-400.webp" srcset="/assets/img/panels/mpt-plasmaschneidtisch-400.webp 400w, /assets/img/panels/mpt-plasmaschneidtisch-1000.webp 1000w, /assets/img/panels/mpt-plasmaschneidtisch-1600.webp 1600w, /assets/img/panels/mpt-plasmaschneidtisch-1672.webp 1672w" sizes="(max-width:700px) 46vw, (max-width:1000px) 30vw, 280px" width="400" height="225" alt="MAHE MPT 2501: Table de découpe plasma CNC professionnelle, surface de travail 2500 x 1250 mm, livrée en set avec une source de courant MAHE Theta." loading="lazy" decoding="async" referrerpolicy="no-referrer"></div>
     <div class="body"><h3>MPT 2501</h3><p>Table de découpe plasma CNC professionnelle, surface de travail 2500 x 1250 mm, livrée en set avec une source de courant MAHE Theta.</p>
       <div class="spec"><span>découpe plasma</span><span>2500 x 1250 mm</span><span>Theta 060 / 120 / 180 HSC</span></div></div>
   </a>

diff --git a/produkte/index.html b/produkte/index.html
@@ -309,7 +309,7 @@
 </article><article class="pcard">
   <a class="pcard-link" href="/produkte/plasmaschneiden/mpt-3001/">
     <div class="imgbox">
-      <img class="" src="/assets/img/panels/mpt-plasmaschneidtisch-400.webp" srcset="/assets/img/panels/mpt-plasmaschneidtisch-400.webp 400w, /assets/img/panels/mpt-plasmaschneidtisch-1000.webp 1000w, /assets/img/panels/mpt-plasmaschneidtisch-1600.webp 1600w, /assets/img/panels/mpt-plasmaschneidtisch-2000.webp 2000w, /assets/img/panels/mpt-plasmaschneidtisch-3000.webp 3000w" sizes="(max-width:700px) 46vw, (max-width:1000px) 30vw, 280px" width="400" height="225" alt="MAHE MPT 3001: Professioneller CNC-Plasmaschneidtisch mit 3000 x 1500 mm Arbeitsbereich, geliefert als Set mit einer MAHE Theta Stromquelle." loading="lazy" decoding="async" referrerpolicy="no-referrer"></div>
+      <img class="" src="/assets/img/panels/mpt-plasmaschneidtisch-400.webp" srcset="/assets/img/panels/mpt-plasmaschneidtisch-400.webp 400w, /assets/img/panels/mpt-plasmaschneidtisch-1000.webp 1000w, /assets/img/panels/mpt-plasmaschneidtisch-1600.webp 1600w, /assets/img/panels/mpt-plasmaschneidtisch-1672.webp 1672w" sizes="(max-width:700px) 46vw, (max-width:1000px) 30vw, 280px" width="400" height="225" alt="MAHE MPT 3001: Professioneller CNC-Plasmaschneidtisch mit 3000 x 1500 mm Arbeitsbereich, geliefert als Set mit einer MAHE Theta Stromquelle." loading="lazy" decoding="async" referrerpolicy="no-referrer"></div>
     <div class="body"><h3>MPT 3001</h3><p>Professioneller CNC-Plasmaschneidtisch mit 3000 x 1500 mm Arbeitsbereich, geliefert als Set mit einer MAHE Theta Stromquelle.</p>
       <div class="spec"><span>Plasmaschneiden</span><span>3000 x 1500 mm</span><span>Theta 060 / 120 / 180 HSC</span></div></div>
   </a>
@@ -319,7 +319,7 @@
 </article><article class="pcard">
   <a class="pcard-link" href="/produkte/plasmaschneiden/mpt-2501/">
     <div class="imgbox">
-      <img class="" src="/assets/img/panels/mpt-plasmaschneidtisch-400.webp" srcset="/assets/img/panels/mpt-plasmaschneidtisch-400.webp 400w, /assets/img/panels/mpt-plasmaschneidtisch-1000.webp 1000w, /assets/img/panels/mpt-plasmaschneidtisch-1600.webp 1600w, /assets/img/panels/mpt-plasmaschneidtisch-2000.webp 2000w, /assets/img/panels/mpt-plasmaschneidtisch-3000.webp 3000w" sizes="(max-width:700px) 46vw, (max-width:1000px) 30vw, 280px" width="400" height="225" alt="MAHE MPT 2501: Professioneller CNC-Plasmaschneidtisch mit 2500 x 1250 mm Arbeitsbereich, geliefert als Set mit einer MAHE Theta Stromquelle." loading="lazy" decoding="async" referrerpolicy="no-referrer"></div>
+      <img class="" src="/assets/img/panels/mpt-plasmaschneidtisch-400.webp" srcset="/assets/img/panels/mpt-plasmaschneidtisch-400.webp 400w, /assets/img/panels/mpt-plasmaschneidtisch-1000.webp 1000w, /assets/img/panels/mpt-plasmaschneidtisch-1600.webp 1600w, /assets/img/panels/mpt-plasmaschneidtisch-1672.webp 1672w" sizes="(max-width:700px) 46vw, (max-width:1000px) 30vw, 280px" width="400" height="225" alt="MAHE MPT 2501: Professioneller CNC-Plasmaschneidtisch mit 2500 x 1250 mm Arbeitsbereich, geliefert als Set mit einer MAHE Theta Stromquelle." loading="lazy" decoding="async" referrerpolicy="no-referrer"></div>
     <div class="body"><h3>MPT 2501</h3><p>Professioneller CNC-Plasmaschneidtisch mit 2500 x 1250 mm Arbeitsbereich, geliefert als Set mit einer MAHE Theta Stromquelle.</p>
       <div class="spec"><span>Plasmaschneiden</span><span>2500 x 1250 mm</span><span>Theta 060 / 120 / 180 HSC</span></div></div>
   </a>

diff --git a/produkte/plasmaschneiden/index.html b/produkte/plasmaschneiden/index.html
@@ -169,7 +169,7 @@
 </article><article class="pcard">
   <a class="pcard-link" href="/produkte/plasmaschneiden/mpt-3001/">
     <div class="imgbox">
-      <img class="" src="/assets/img/panels/mpt-plasmaschneidtisch-400.webp" srcset="/assets/img/panels/mpt-plasmaschneidtisch-400.webp 400w, /assets/img/panels/mpt-plasmaschneidtisch-1000.webp 1000w, /assets/img/panels/mpt-plasmaschneidtisch-1600.webp 1600w, /assets/img/panels/mpt-plasmaschneidtisch-2000.webp 2000w, /assets/img/panels/mpt-plasmaschneidtisch-3000.webp 3000w" sizes="(max-width:700px) 46vw, (max-width:1000px) 30vw, 280px" width="400" height="225" alt="MAHE MPT 3001: Professioneller CNC-Plasmaschneidtisch mit 3000 x 1500 mm Arbeitsbereich, geliefert als Set mit einer MAHE Theta Stromquelle." loading="lazy" decoding="async" referrerpolicy="no-referrer"></div>
+      <img class="" src="/assets/img/panels/mpt-plasmaschneidtisch-400.webp" srcset="/assets/img/panels/mpt-plasmaschneidtisch-400.webp 400w, /assets/img/panels/mpt-plasmaschneidtisch-1000.webp 1000w, /assets/img/panels/mpt-plasmaschneidtisch-1600.webp 1600w, /assets/img/panels/mpt-plasmaschneidtisch-1672.webp 1672w" sizes="(max-width:700px) 46vw, (max-width:1000px) 30vw, 280px" width="400" height="225" alt="MAHE MPT 3001: Professioneller CNC-Plasmaschneidtisch mit 3000 x 1500 mm Arbeitsbereich, geliefert als Set mit einer MAHE Theta Stromquelle." loading="lazy" decoding="async" referrerpolicy="no-referrer"></div>
     <div class="body"><h3>MPT 3001</h3><p>Professioneller CNC-Plasmaschneidtisch mit 3000 x 1500 mm Arbeitsbereich, geliefert als Set mit einer MAHE Theta Stromquelle.</p>
       <div class="spec"><span>Plasmaschneiden</span><span>3000 x 1500 mm</span><span>Theta 060 / 120 / 180 HSC</span></div></div>
   </a>
@@ -179,7 +179,7 @@
 </article><article class="pcard">
   <a class="pcard-link" href="/produkte/plasmaschneiden/mpt-2501/">
     <div class="imgbox">
-      <img class="" src="/assets/img/panels/mpt-plasmaschneidtisch-400.webp" srcset="/assets/img/panels/mpt-plasmaschneidtisch-400.webp 400w, /assets/img/panels/mpt-plasmaschneidtisch-1000.webp 1000w, /assets/img/panels/mpt-plasmaschneidtisch-1600.webp 1600w, /assets/img/panels/mpt-plasmaschneidtisch-2000.webp 2000w, /assets/img/panels/mpt-plasmaschneidtisch-3000.webp 3000w" sizes="(max-width:700px) 46vw, (max-width:1000px) 30vw, 280px" width="400" height="225" alt="MAHE MPT 2501: Professioneller CNC-Plasmaschneidtisch mit 2500 x 1250 mm Arbeitsbereich, geliefert als Set mit einer MAHE Theta Stromquelle." loading="lazy" decoding="async" referrerpolicy="no-referrer"></div>
+      <img class="" src="/assets/img/panels/mpt-plasmaschneidtisch-400.webp" srcset="/assets/img/panels/mpt-plasmaschneidtisch-400.webp 400w, /assets/img/panels/mpt-plasmaschneidtisch-1000.webp 1000w, /assets/img/panels/mpt-plasmaschneidtisch-1600.webp 1600w, /assets/img/panels/mpt-plasmaschneidtisch-1672.webp 1672w" sizes="(max-width:700px) 46vw, (max-width:1000px) 30vw, 280px" width="400" height="225" alt="MAHE MPT 2501: Professioneller CNC-Plasmaschneidtisch mit 2500 x 1250 mm Arbeitsbereich, geliefert als Set mit einer MAHE Theta Stromquelle." loading="lazy" decoding="async" referrerpolicy="no-referrer"></div>
     <div class="body"><h3>MPT 2501</h3><p>Professioneller CNC-Plasmaschneidtisch mit 2500 x 1250 mm Arbeitsbereich, geliefert als Set mit einer MAHE Theta Stromquelle.</p>
       <div class="spec"><span>Plasmaschneiden</span><span>2500 x 1250 mm</span><span>Theta 060 / 120 / 180 HSC</span></div></div>
   </a>

diff --git a/it/prodotti/index.html b/it/prodotti/index.html
@@ -309,7 +309,7 @@
 </article><article class="pcard">
   <a class="pcard-link" href="/it/prodotti/taglio-plasma/mpt-3001/">
     <div class="imgbox">
-      <img class="" src="/assets/img/panels/mpt-plasmaschneidtisch-400.webp" srcset="/assets/img/panels/mpt-plasmaschneidtisch-400.webp 400w, /assets/img/panels/mpt-plasmaschneidtisch-1000.webp 1000w, /assets/img/panels/mpt-plasmaschneidtisch-1600.webp 1600w, /assets/img/panels/mpt-plasmaschneidtisch-2000.webp 2000w, /assets/img/panels/mpt-plasmaschneidtisch-3000.webp 3000w" sizes="(max-width:700px) 46vw, (max-width:1000px) 30vw, 280px" width="400" height="225" alt="MAHE MPT 3001: Tavolo di taglio al plasma CNC professionale, area di lavoro 3000 x 1500 mm, fornito in set con un generatore MAHE Theta." loading="lazy" decoding="async" referrerpolicy="no-referrer"></div>
+      <img class="" src="/assets/img/panels/mpt-plasmaschneidtisch-400.webp" srcset="/assets/img/panels/mpt-plasmaschneidtisch-400.webp 400w, /assets/img/panels/mpt-plasmaschneidtisch-1000.webp 1000w, /assets/img/panels/mpt-plasmaschneidtisch-1600.webp 1600w, /assets/img/panels/mpt-plasmaschneidtisch-1672.webp 1672w" sizes="(max-width:700px) 46vw, (max-width:1000px) 30vw, 280px" width="400" height="225" alt="MAHE MPT 3001: Tavolo di taglio al plasma CNC professionale, area di lavoro 3000 x 1500 mm, fornito in set con un generatore MAHE Theta." loading="lazy" decoding="async" referrerpolicy="no-referrer"></div>
     <div class="body"><h3>MPT 3001</h3><p>Tavolo di taglio al plasma CNC professionale, area di lavoro 3000 x 1500 mm, fornito in set con un generatore MAHE Theta.</p>
       <div class="spec"><span>taglio al plasma</span><span>3000 x 1500 mm</span><span>Theta 060 / 120 / 180 HSC</span></div></div>
   </a>
@@ -319,7 +319,7 @@
 </article><article class="pcard">
   <a class="pcard-link" href="/it/prodotti/taglio-plasma/mpt-2501/">
     <div class="imgbox">
-      <img class="" src="/assets/img/panels/mpt-plasmaschneidtisch-400.webp" srcset="/assets/img/panels/mpt-plasmaschneidtisch-400.webp 400w, /assets/img/panels/mpt-plasmaschneidtisch-1000.webp 1000w, /assets/img/panels/mpt-plasmaschneidtisch-1600.webp 1600w, /assets/img/panels/mpt-plasmaschneidtisch-2000.webp 2000w, /assets/img/panels/mpt-plasmaschneidtisch-3000.webp 3000w" sizes="(max-width:700px) 46vw, (max-width:1000px) 30vw, 280px" width="400" height="225" alt="MAHE MPT 2501: Tavolo di taglio al plasma CNC professionale, area di lavoro 2500 x 1250 mm, fornito in set con un generatore MAHE Theta." loading="lazy" decoding="async" referrerpolicy="no-referrer"></div>
+      <img class="" src="/assets/img/panels/mpt-plasmaschneidtisch-400.webp" srcset="/assets/img/panels/mpt-plasmaschneidtisch-400.webp 400w, /assets/img/panels/mpt-plasmaschneidtisch-1000.webp 1000w, /assets/img/panels/mpt-plasmaschneidtisch-1600.webp 1600w, /assets/img/panels/mpt-plasmaschneidtisch-1672.webp 1672w" sizes="(max-width:700px) 46vw, (max-width:1000px) 30vw, 280px" width="400" height="225" alt="MAHE MPT 2501: Tavolo di taglio al plasma CNC professionale, area di lavoro 2500 x 1250 mm, fornito in set con un generatore MAHE Theta." loading="lazy" decoding="async" referrerpolicy="no-referrer"></div>
     <div class="body"><h3>MPT 2501</h3><p>Tavolo di taglio al plasma CNC professionale, area di lavoro 2500 x 1250 mm, fornito in set con un generatore MAHE Theta.</p>
       <div class="spec"><span>taglio al plasma</span><span>2500 x 1250 mm</span><span>Theta 060 / 120 / 180 HSC</span></div></div>
   </a>

diff --git a/it/prodotti/taglio-plasma/index.html b/it/prodotti/taglio-plasma/index.html
@@ -169,7 +169,7 @@
 </article><article class="pcard">
   <a class="pcard-link" href="/it/prodotti/taglio-plasma/mpt-3001/">
     <div class="imgbox">
-      <img class="" src="/assets/img/panels/mpt-plasmaschneidtisch-400.webp" srcset="/assets/img/panels/mpt-plasmaschneidtisch-400.webp 400w, /assets/img/panels/mpt-plasmaschneidtisch-1000.webp 1000w, /assets/img/panels/mpt-plasmaschneidtisch-1600.webp 1600w, /assets/img/panels/mpt-plasmaschneidtisch-2000.webp 2000w, /assets/img/panels/mpt-plasmaschneidtisch-3000.webp 3000w" sizes="(max-width:700px) 46vw, (max-width:1000px) 30vw, 280px" width="400" height="225" alt="MAHE MPT 3001: Tavolo di taglio al plasma CNC professionale, area di lavoro 3000 x 1500 mm, fornito in set con un generatore MAHE Theta." loading="lazy" decoding="async" referrerpolicy="no-referrer"></div>
+      <img class="" src="/assets/img/panels/mpt-plasmaschneidtisch-400.webp" srcset="/assets/img/panels/mpt-plasmaschneidtisch-400.webp 400w, /assets/img/panels/mpt-plasmaschneidtisch-1000.webp 1000w, /assets/img/panels/mpt-plasmaschneidtisch-1600.webp 1600w, /assets/img/panels/mpt-plasmaschneidtisch-1672.webp 1672w" sizes="(max-width:700px) 46vw, (max-width:1000px) 30vw, 280px" width="400" height="225" alt="MAHE MPT 3001: Tavolo di taglio al plasma CNC professionale, area di lavoro 3000 x 1500 mm, fornito in set con un generatore MAHE Theta." loading="lazy" decoding="async" referrerpolicy="no-referrer"></div>
     <div class="body"><h3>MPT 3001</h3><p>Tavolo di taglio al plasma CNC professionale, area di lavoro 3000 x 1500 mm, fornito in set con un generatore MAHE Theta.</p>
       <div class="spec"><span>taglio al plasma</span><span>3000 x 1500 mm</span><span>Theta 060 / 120 / 180 HSC</span></div></div>
   </a>
@@ -179,7 +179,7 @@
 </article><article class="pcard">
   <a class="pcard-link" href="/it/prodotti/taglio-plasma/mpt-2501/">
     <div class="imgbox">
-      <img class="" src="/assets/img/panels/mpt-plasmaschneidtisch-400.webp" srcset="/assets/img/panels/mpt-plasmaschneidtisch-400.webp 400w, /assets/img/panels/mpt-plasmaschneidtisch-1000.webp 1000w, /assets/img/panels/mpt-plasmaschneidtisch-1600.webp 1600w, /assets/img/panels/mpt-plasmaschneidtisch-2000.webp 2000w, /assets/img/panels/mpt-plasmaschneidtisch-3000.webp 3000w" sizes="(max-width:700px) 46vw, (max-width:1000px) 30vw, 280px" width="400" height="225" alt="MAHE MPT 2501: Tavolo di taglio al plasma CNC professionale, area di lavoro 2500 x 1250 mm, fornito in set con un generatore MAHE Theta." loading="lazy" decoding="async" referrerpolicy="no-referrer"></div>
+      <img class="" src="/assets/img/panels/mpt-plasmaschneidtisch-400.webp" srcset="/assets/img/panels/mpt-plasmaschneidtisch-400.webp 400w, /assets/img/panels/mpt-plasmaschneidtisch-1000.webp 1000w, /assets/img/panels/mpt-plasmaschneidtisch-1600.webp 1600w, /assets/img/panels/mpt-plasmaschneidtisch-1672.webp 1672w" sizes="(max-width:700px) 46vw, (max-width:1000px) 30vw, 280px" width="400" height="225" alt="MAHE MPT 2501: Tavolo di taglio al plasma CNC professionale, area di lavoro 2500 x 1250 mm, fornito in set con un generatore MAHE Theta." loading="lazy" decoding="async" referrerpolicy="no-referrer"></div>
     <div class="body"><h3>MPT 2501</h3><p>Tavolo di taglio al plasma CNC professionale, area di lavoro 2500 x 1250 mm, fornito in set con un generatore MAHE Theta.</p>
       <div class="spec"><span>taglio al plasma</span><span>2500 x 1250 mm</span><span>Theta 060 / 120 / 180 HSC</span></div></div>
   </a>
